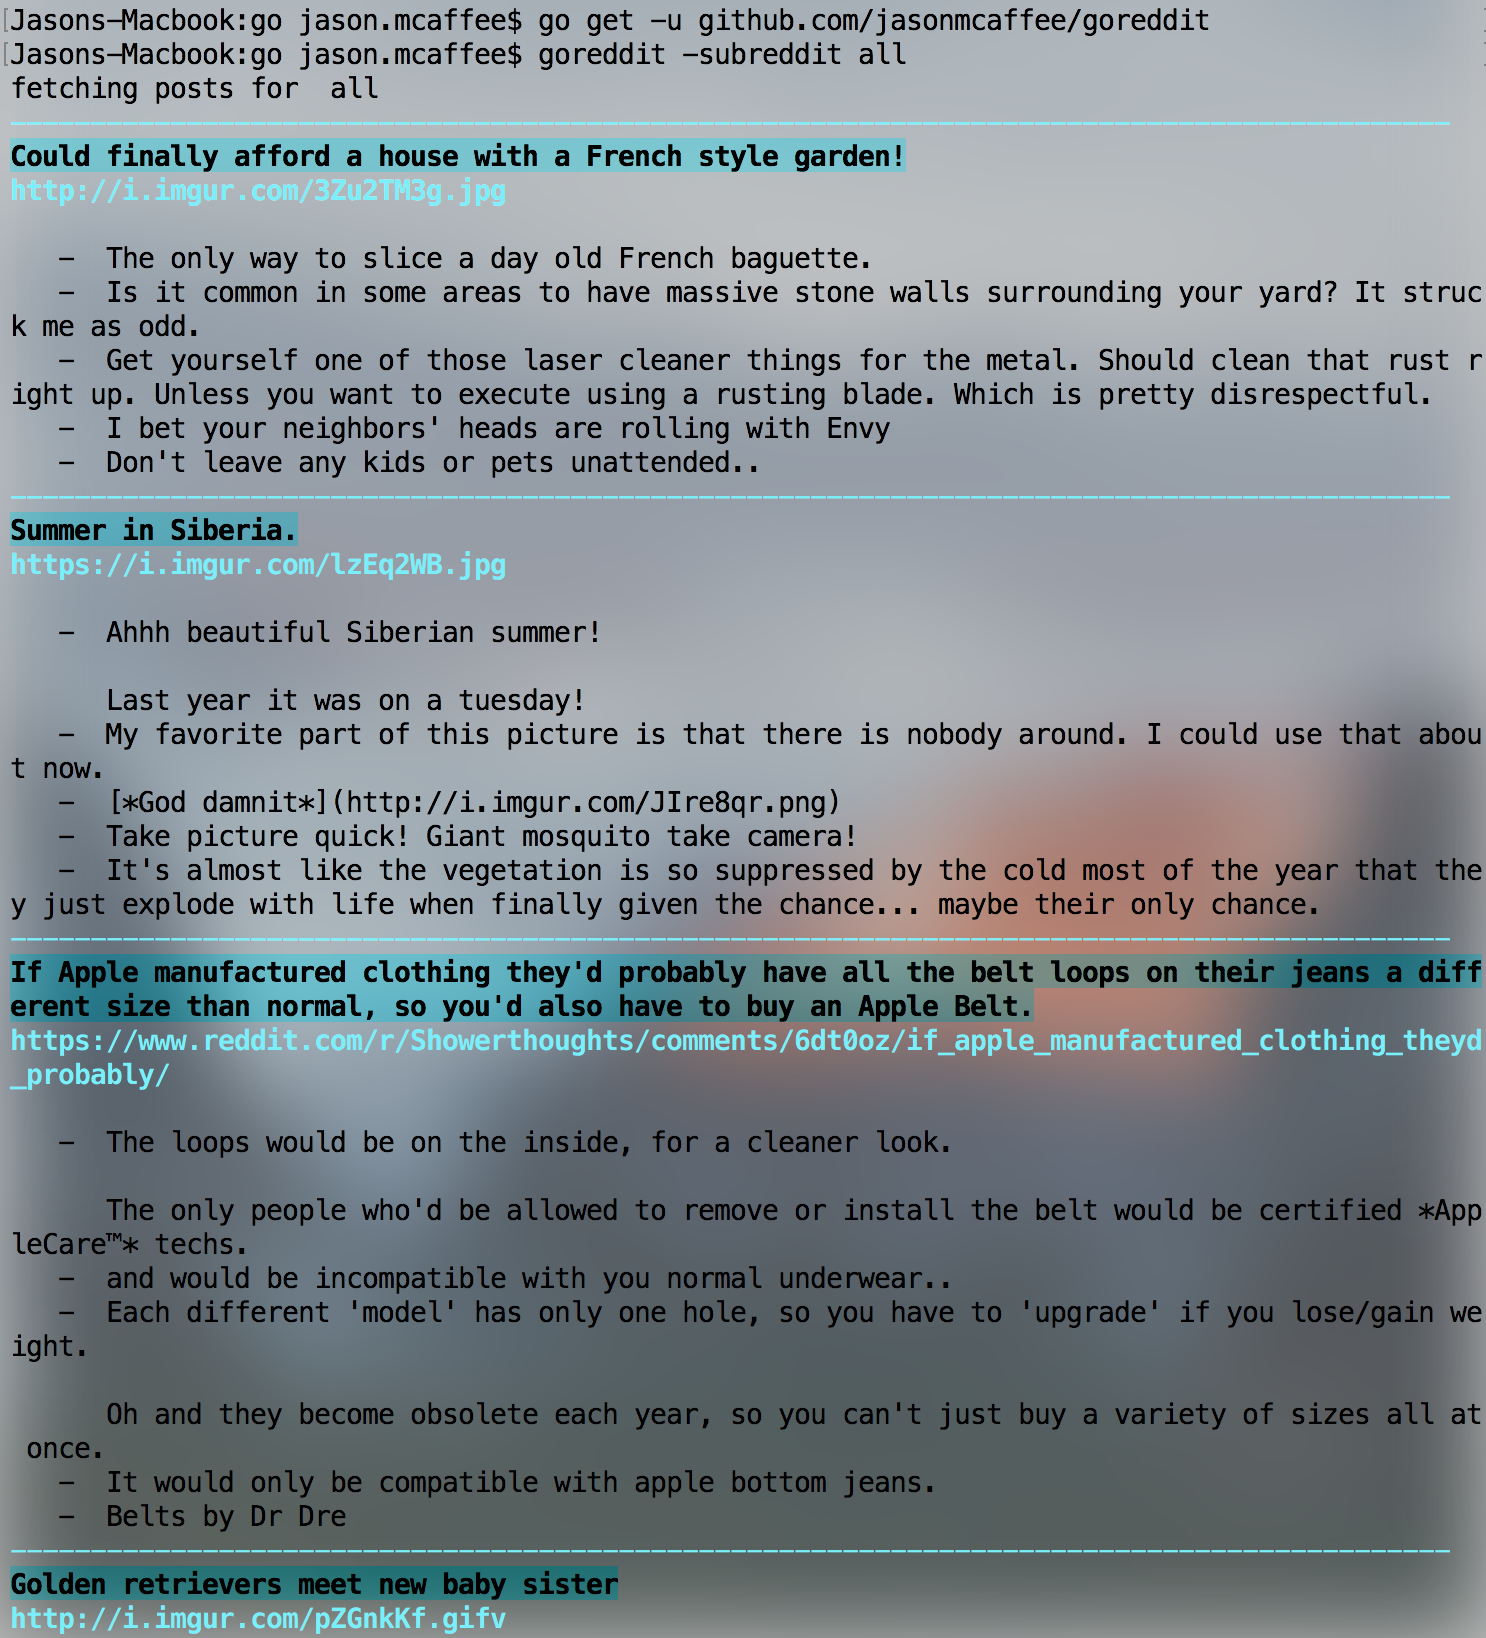
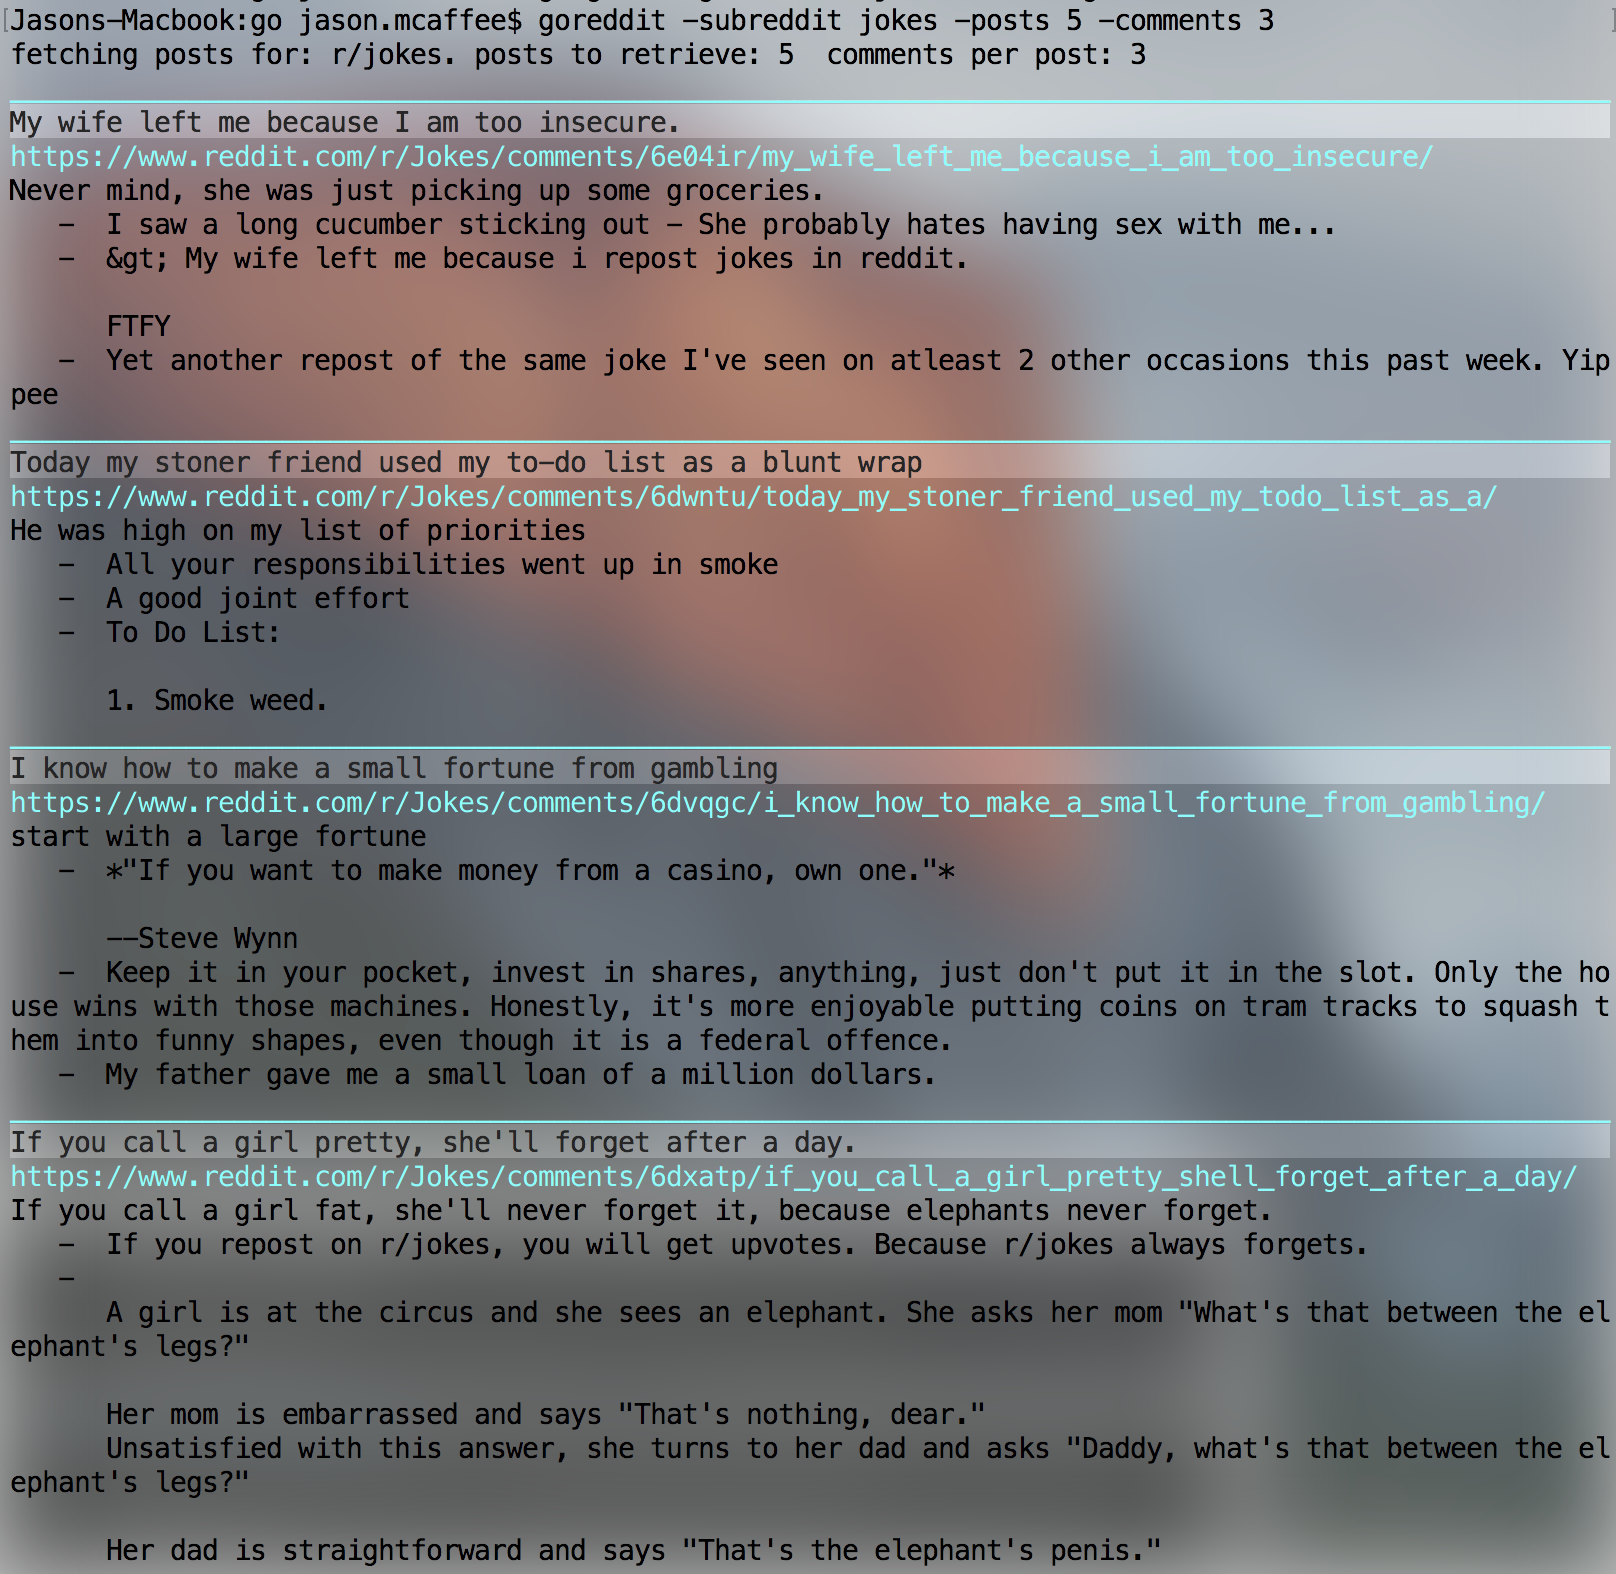
styling

diff --git a/README.md b/README.md
@@ -24,9 +24,9 @@ goreddit
 CMD + double-click on links inside the terminal, and they will be opened up in a new tab in your browser.
 
 ### flag options
-
+example showing all flag options
 ```
-
+goreddit -subreddit jokes -posts 5 -comments 3
 ```
 
 #### -subreddit
